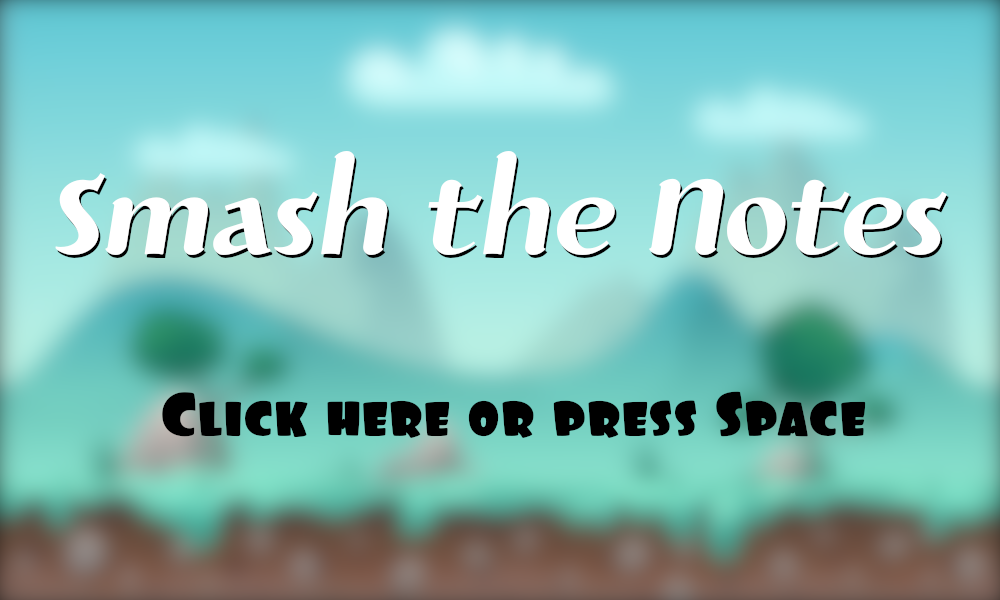
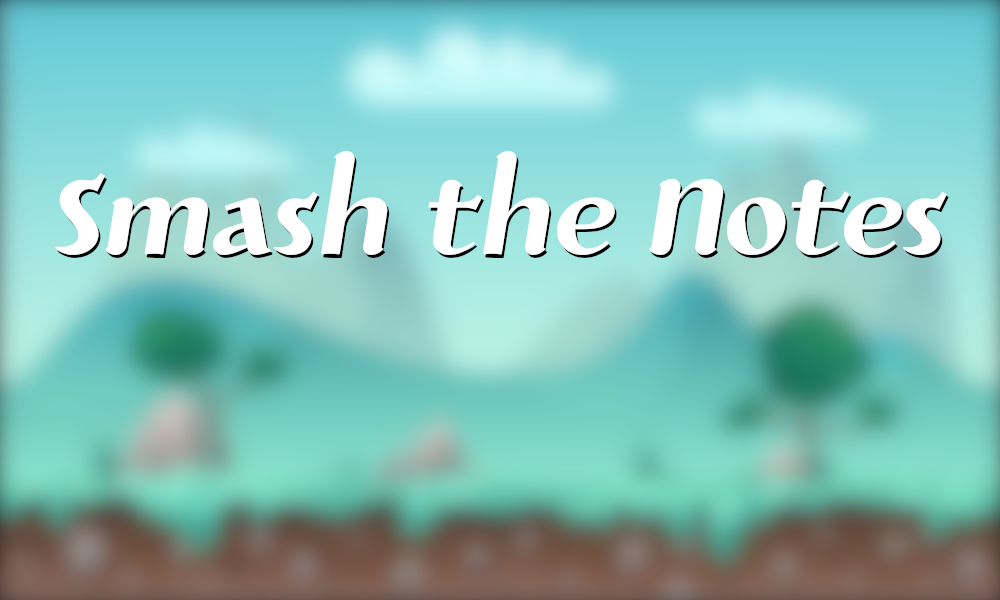
Corrigé les headers de splashscreen

Changed region(s): [[0.155, 0.63, 0.868, 0.75]]

diff --git a/splashscreen.cpp b/splashscreen.cpp
@@ -1,7 +1,5 @@
 #include "splashscreen.h"
 
-#include <QVBoxLayout>
-#include <QHBoxLayout>
 #include <QKeyEvent>
 
 SplashScreen::SplashScreen(QWidget *parent)
@@ -9,7 +7,6 @@ SplashScreen::SplashScreen(QWidget *parent)
 {
     setStyleSheet("SplashScreen {background-image: url(\":/img/smashthenotes.png\"); border: 0px;} SplashScreen:hover {border: 0px; }");
     setText("");
-
     connect(this, &QPushButton::clicked, this, &SplashScreen::displayMainMenu);
 }
 
